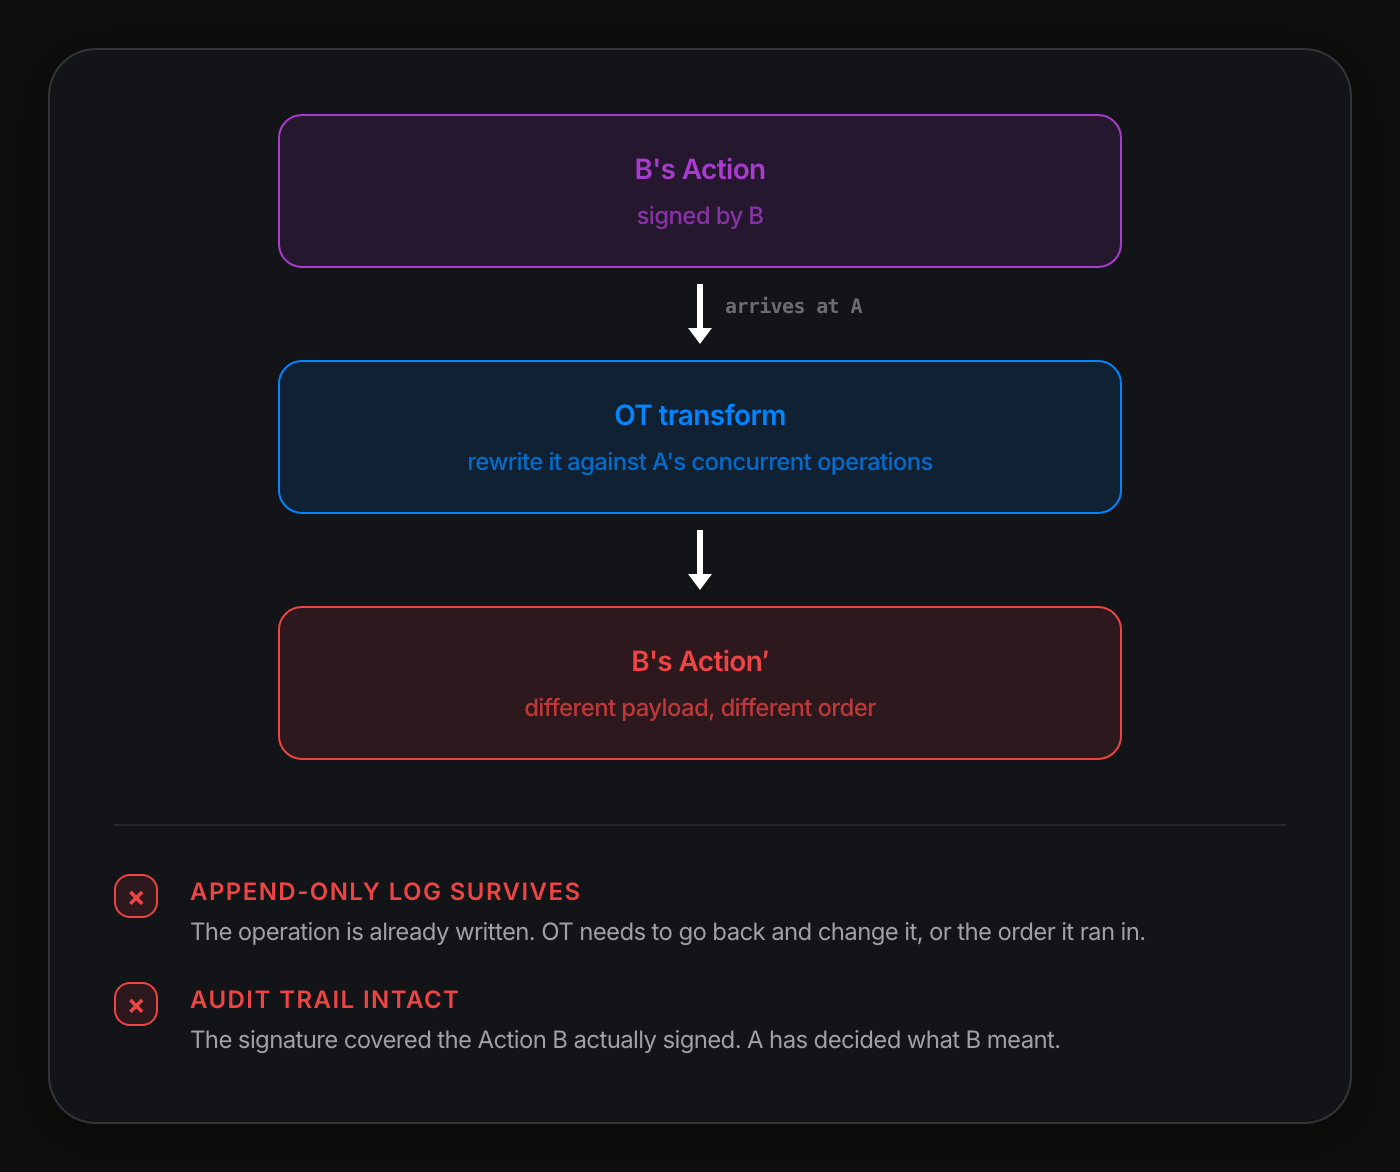
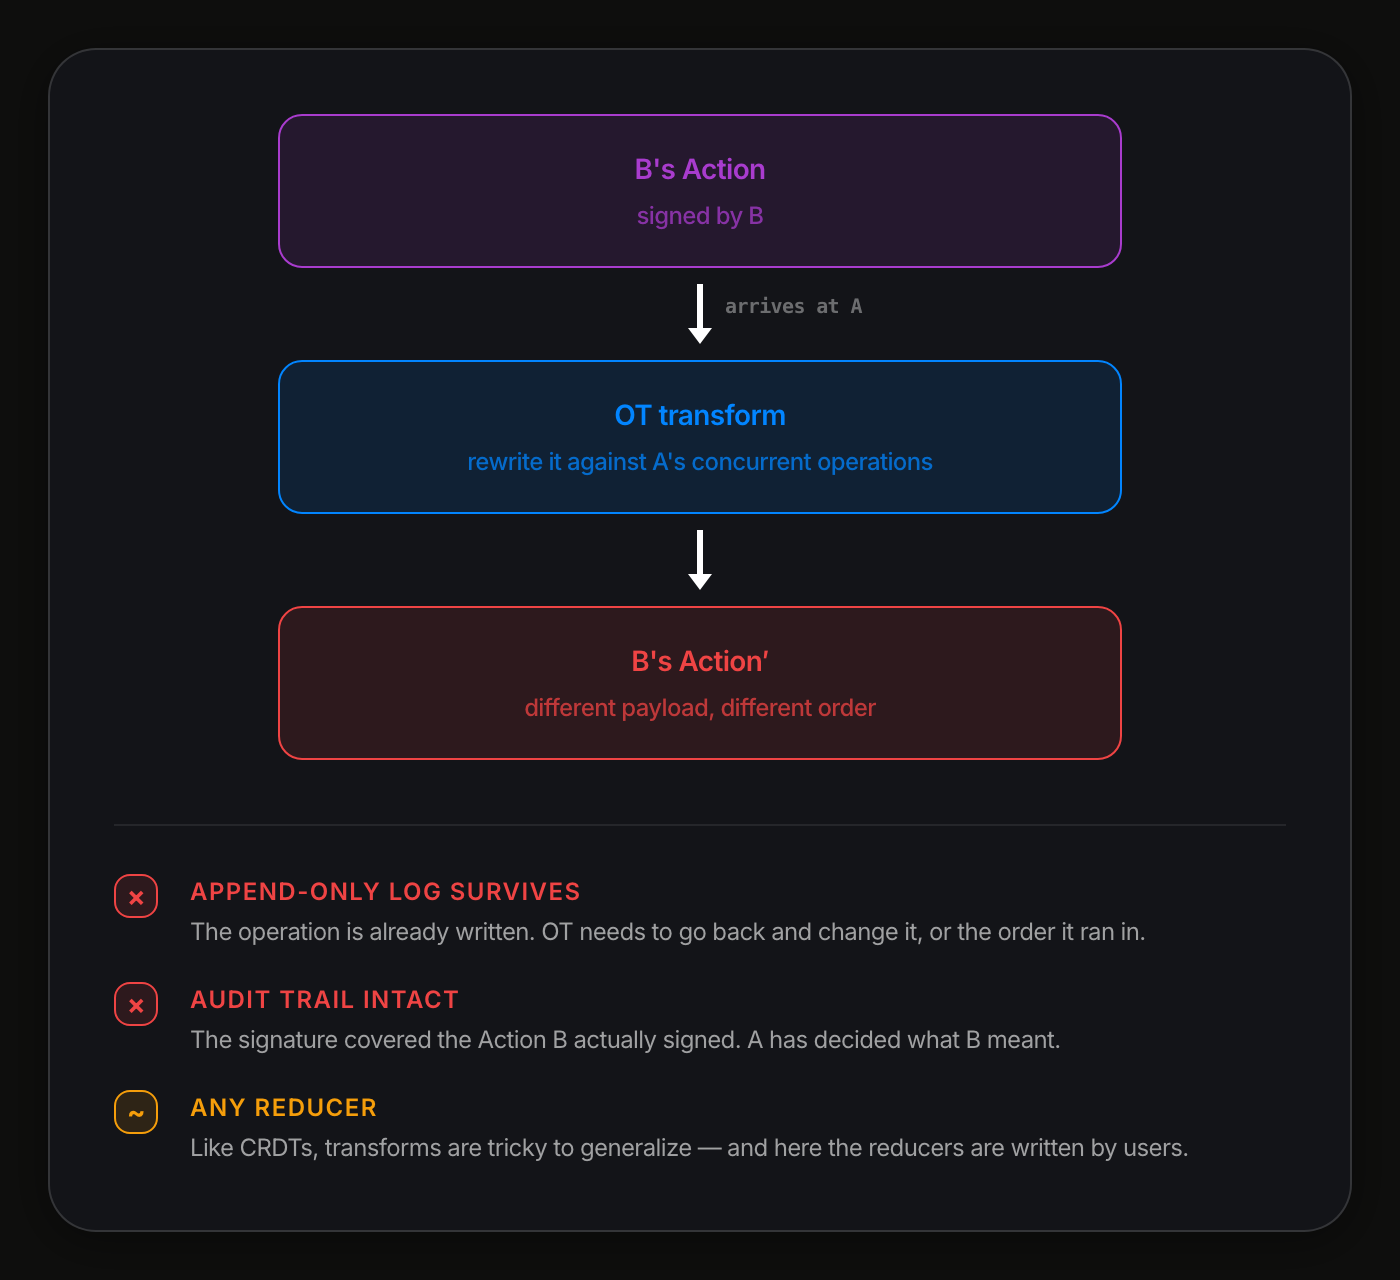
rebuild: the OT slide gains the generalize rough edge
Notes rewritten from article II directly: OT is reached by noticing a reorder
would mutate an immutable operation, it is what Google Docs uses, it is tricky
to generalize, and the append-only backends are named.

diff --git a/index.html b/index.html
@@ -92,7 +92,7 @@
       <section data-slide="23"><header class="hd"><h2>How games do it</h2><span class="sec">Act III — Sync</span></header><div class="art"><div class="fit"><iframe src="diagrams/pages/game-timelines.html" data-w="800" style="width:800px" scrolling="no" title="Client/server game timelines"></iframe></div></div><aside class="notes"><h4>How games do it</h4><ul><li>II: &quot;real-time multiplayer video games were 'local-first' before it was cool.&quot;</li><li>II: &quot;the client reconciles the difference between the state it calculated optimistically... and the state it received authoritatively at a later time. This is how you get shot around corners.&quot;</li><li>II: &quot;Authoritative games rely entirely on a centralized server. We want to make every Reactor authoritative. In addition, no one wants their work discarded when some other simulation 'wins'.&quot; Fails 1 and 3.</li></ul></aside></section>
       <section data-slide="24"><header class="hd"><h2>How Figma does it: CRDTs</h2><span class="sec">Act III — Sync</span></header><div class="art"><div class="fit"><iframe src="diagrams/pages/crdt-max-operations.html" data-w="700" style="width:700px" scrolling="no" title="CRDT commutativity with max()"></iframe></div></div><aside class="notes"><h4>How Figma does it: CRDTs</h4><ul><li>II: &quot;CRDTs allow users to do work local-first and eventually come to a consensus on what the result should be.&quot;</li><li><code>max(x, 5)</code> and <code>max(x, 6)</code> in either order give 6. Passes 1, 2 and 3.</li><li>II: &quot;This sounds like it could be a perfect fit for The Reactor!&quot;</li></ul></aside></section>
       <section data-slide="25"><header class="hd"><h2>Where CRDTs stop</h2><span class="sec">Act III — Sync</span></header><div class="art"><div class="fit"><iframe src="diagrams/pages/crdt-withdraw-divergence.html" data-w="700" style="width:700px" scrolling="no" title="Reducer with a balance check diverges"></iframe></div></div><aside class="notes"><h4>Where CRDTs stop</h4><ul><li>II: &quot;CRDTs do not generalize to the same degree that Flux reducers do. That is, you cannot replace every reducer with a CRDT.&quot;</li><li>II: &quot;thank God your bank doesn't use CRDTs.&quot;</li><li>II: &quot;CRDTs are fairly tricky primitives for developers to work with anyway.&quot; Reducers here are written by users. Fails the reducer requirement.</li></ul></aside></section>
-      <section data-slide="26"><header class="hd"><h2>Why not just OT?</h2><span class="sec">Act III — Sync</span></header><div class="art"><div class="fit"><iframe src="diagrams/pages/why-not-ot.html" data-w="700" style="width:700px" scrolling="no" title="OT rewrites the operation that arrives from the other client"></iframe></div></div><aside class="notes"><h4>Why not just OT?</h4><ul><li>II: &quot;In OT, you essentially rewrite operations coming from other clients so that they make sense.&quot;</li><li>II: &quot;operations are immutable objects that include information about what order they ran in and a resulting state hash. If we reorder them, then we'd need to mutate the immutable operation.&quot;</li><li>II: &quot;each Reactor writes to append-only storage backends... so we can't actually go back and rewrite operations or their order.&quot; Fails 2.</li><li>II: &quot;do you really want your mutations altered by someone else? Who gets to decide that anyway?&quot; Fails 3.</li><li>II: &quot;We never rewrite a user's intent... We can create new Operations but we can never create new Actions. This is the main difference between Operational Reshuffle and Operational Transformation.&quot;</li></ul></aside></section>
+      <section data-slide="26"><header class="hd"><h2>Why not just OT?</h2><span class="sec">Act III — Sync</span></header><div class="art"><div class="fit"><iframe src="diagrams/pages/why-not-ot.html" data-w="700" style="width:700px" scrolling="no" title="OT rewrites the operation that arrives from the other client"></iframe></div></div><aside class="notes"><h4>Why not just OT?</h4><ul><li>Reordering is what forces the question. II: &quot;If we reorder them, then we'd need to mutate the immutable operation. This is very similar to a technique called Operational Transformation (OT). This is what Google Docs uses, among other widely used tools.&quot;</li><li>II: &quot;In OT, you essentially rewrite operations coming from other clients so that they make sense. There is more to it than that (just like with CRDTs) but that's the gist.&quot;</li><li>II: &quot;OT has some similar rough edges to CRDT, in that they can be tricky to generalize.&quot;</li><li>II: &quot;if you are working on a document, particularly one with sensitive information, do you really want your mutations altered by someone else? Who gets to decide that anyway?&quot; Fails 3.</li><li>II: &quot;each Reactor writes to append-only storage backends (like Swarm or Hypercore), so we can't actually go back and rewrite operations or their order.&quot; Fails 2.</li><li>II: &quot;We never rewrite a user's intent... We can create new Operations but we can never create new Actions. This is the main difference between Operational Reshuffle and Operational Transformation.&quot;</li></ul></aside></section>
       <section data-slide="27"><header class="hd"><h2>The scorecard</h2><span class="sec">Act III — Sync</span></header><div class="art"><div class="fit"><iframe src="diagrams/pages/sync-scorecard.html" data-w="1100" style="width:1100px" scrolling="no" title="Authoritative server, CRDTs, OT and Reshuffle graded against the requirements"></iframe></div></div><aside class="notes"><h4>The scorecard</h4><ul><li>II: &quot;On the spectrum of CRDTs and OT, it lies much closer to the latter — with some important differences.&quot;</li></ul></aside></section>
       <section data-slide="28"><header class="hd"><h2>Operational Reshuffle, step 1: sort</h2><span class="sec">Act III — Sync</span></header><div class="art"><div class="fit"><iframe src="diagrams/pages/ops-sorted-by-timestamp.html" data-w="1200" style="width:1200px" scrolling="no" title="Sort mixed A+B operations by timestamp"></iframe></div></div><aside class="notes"><h4>Operational Reshuffle, step 1: sort</h4><ul><li>II: &quot;Operations cannot be changed, but we can create new ones.&quot; Requirement 2.</li><li>II: &quot;We never rewrite a user's intent... We can create new Operations but we can never create new Actions. This is the main difference between Operational Reshuffle and Operational Transformation.&quot; Requirement 3.</li><li>Step 1: &quot;we take event streams A and B and order them by timestamp.&quot;</li></ul></aside></section>
       <section data-slide="29"><header class="hd"><h2>Step 2: find the merge base</h2><span class="sec">Act III — Sync</span></header><div class="art"><div class="fit"><iframe src="diagrams/pages/merge-base-highlighted.html" data-w="1200" style="width:1200px" scrolling="no" title="Merge base and the conflicted range"></iframe></div></div><aside class="notes"><h4>Step 2: find the merge base</h4><ul><li>II: &quot;we walk from start to front to find where the streams diverge, relative to A.&quot;</li><li>Same hash means same operation. First mismatch is the divergence. II: &quot;In more familiar git terminology, this would be called the 'merge base'.&quot;</li><li>II: &quot;we now have 9 operations in a conflicted state: 4 from A and 5 from B.&quot;</li></ul></aside></section>

diff --git a/diagrams/pages/why-not-ot.html b/diagrams/pages/why-not-ot.html
@@ -102,6 +102,13 @@
       line-height: 20px;
       text-align: center;
     }
+    .fail-mark.partial {
+      border-color: #F59E0B;
+      background: rgba(245, 158, 11, 0.12);
+      color: #F59E0B;
+    }
+    .fail-title.partial { color: #F59E0B; }
+
     .fail-title {
       font-size: 12px;
       font-weight: var(--font-weight-semibold);
@@ -155,6 +162,13 @@
               <div>
                 <div class="fail-title">Audit trail intact</div>
                 <div class="fail-note">The signature covered the Action B actually signed. A has decided what B meant.</div>
+              </div>
+            </div>
+            <div class="fail">
+              <span class="fail-mark partial">~</span>
+              <div>
+                <div class="fail-title partial">Any reducer</div>
+                <div class="fail-note">Like CRDTs, transforms are tricky to generalize &mdash; and here the reducers are written by users.</div>
               </div>
             </div>
           </div>

diff --git a/outline.md b/outline.md
@@ -221,15 +221,16 @@ A structured runtime for local-first applications.
 
 ![OT rewrites the operation that arrives from the other client](img/why-not-ot.png)
 
+- Reordering is what forces the question. II: "If we reorder them, then we'd need to mutate the
+  immutable operation. This is very similar to a technique called Operational Transformation
+  (OT). This is what Google Docs uses, among other widely used tools."
 - II: "In OT, you essentially rewrite operations coming from other clients so that they make
-  sense."
-- II: "operations are immutable objects that include information about what order they ran in
-  and a resulting state hash. If we reorder them, then we'd need to mutate the immutable
-  operation."
-- II: "each Reactor writes to append-only storage backends... so we can't actually go back and
-  rewrite operations or their order." Fails 2.
-- II: "do you really want your mutations altered by someone else? Who gets to decide that
-  anyway?" Fails 3.
+  sense. There is more to it than that (just like with CRDTs) but that's the gist."
+- II: "OT has some similar rough edges to CRDT, in that they can be tricky to generalize."
+- II: "if you are working on a document, particularly one with sensitive information, do you
+  really want your mutations altered by someone else? Who gets to decide that anyway?" Fails 3.
+- II: "each Reactor writes to append-only storage backends (like Swarm or Hypercore), so we
+  can't actually go back and rewrite operations or their order." Fails 2.
 - II: "We never rewrite a user's intent... We can create new Operations but we can never create
   new Actions. This is the main difference between Operational Reshuffle and Operational
   Transformation."
